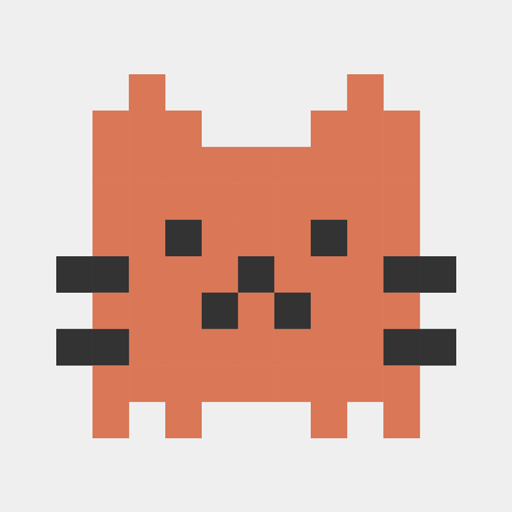
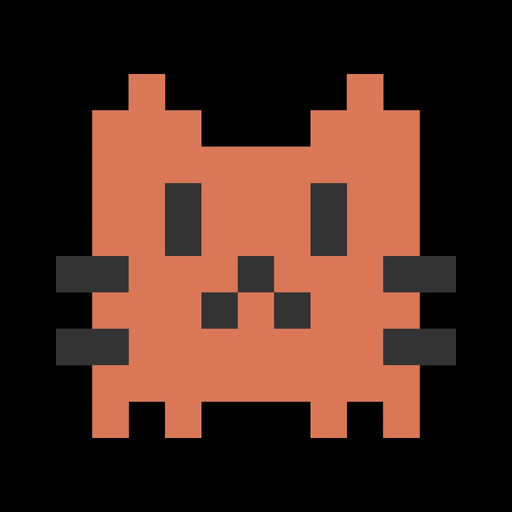
Add files via upload

diff --git a/index.html b/index.html
@@ -228,7 +228,7 @@ textarea.form-input{resize:none;height:72px;line-height:1.5;}
 <!-- ===== 登入畫面 ===== -->
 <div class="screen active" id="screen-login">
   <div style="flex:1;display:flex;flex-direction:column;align-items:center;justify-content:center;padding:40px 28px;">
[1 lines of base64/hex data omitted]
+    <div style="margin-bottom:20px;"><?xml version="1.0" encoding="UTF-8"?><svg width="120" height="120" style="display:block;margin:0 auto;" id="_圖層_1" data-name="圖層_1" xmlns="http://www.w3.org/2000/svg" version="1.1" viewBox="0 0 1100 1000"> <!-- Generator: Adobe Illustrator 30.2.1, SVG Export Plug-In . SVG Version: 2.1.1 Build 1) --> <defs>  <style>   .st0 {    fill: #d97757;   }   .st1 {    fill: #333;   }  </style> </defs> <g>  <rect class="st0" x="100" y="200" width="100" height="100"/>  <rect class="st0" x="100" y="100" width="100" height="100"/>  <rect class="st0" x="200" y="100" width="100" height="100"/>  <rect class="st0" x="300" y="100" width="100" height="100"/>  <rect class="st0" x="100" y="300" width="100" height="100"/>  <rect class="st0" x="100" y="400" width="100" height="100"/>  <rect class="st1" x="100" y="500" width="100" height="100"/>  <rect class="st0" x="200" y="200" width="100" height="100"/>  <rect class="st0" x="200" y="300" width="100" height="100"/>  <rect class="st0" x="200" y="400" width="100" height="100"/>  <rect class="st0" x="200" y="500" width="100" height="100"/>  <rect class="st0" x="300" y="200" width="100" height="100"/>  <rect class="st0" x="400" y="200" width="100" height="100"/>  <rect class="st0" x="500" y="200" width="100" height="100"/>  <rect class="st0" x="600" y="200" width="100" height="100"/>  <rect class="st0" x="900" y="100" width="100" height="100"/>  <rect class="st0" x="800" y="100" width="100" height="100"/>  <rect class="st0" x="200" y="0" width="100" height="100"/>  <rect class="st0" x="800" y="0" width="100" height="100"/>  <rect class="st0" x="700" y="100" width="100" height="100"/>  <rect class="st1" x="300" y="300" width="100" height="100"/>  <rect class="st0" x="400" y="300" width="100" height="100"/>  <rect class="st0" x="500" y="300" width="100" height="100"/>  <rect class="st0" x="600" y="300" width="100" height="100"/>  <rect class="st1" x="300" y="400" width="100" height="100"/>  <rect class="st0" x="400" y="400" width="100" height="100"/>  <rect class="st0" x="500" y="400" width="100" height="100"/>  <rect class="st0" x="600" y="400" width="100" height="100"/>  <rect class="st0" x="300" y="500" width="100" height="100"/>  <rect class="st0" x="400" y="500" width="100" height="100"/>  <rect class="st1" x="500" y="500" width="100" height="100"/>  <rect class="st0" x="600" y="500" width="100" height="100"/>  <rect class="st0" x="800" y="200" width="100" height="100"/>  <rect class="st0" x="900" y="200" width="100" height="100"/>  <rect class="st0" x="800" y="300" width="100" height="100"/>  <rect class="st0" x="900" y="300" width="100" height="100"/>  <rect class="st0" x="800" y="400" width="100" height="100"/>  <rect class="st0" x="900" y="400" width="100" height="100"/>  <rect class="st0" x="800" y="500" width="100" height="100"/>  <rect class="st1" x="900" y="500" width="100" height="100"/>  <rect class="st1" x="1000" y="500" width="100" height="100"/>  <rect class="st0" x="100" y="600" width="100" height="100"/>  <rect class="st0" x="200" y="600" width="100" height="100"/>  <rect class="st0" x="200" y="700" width="100" height="100"/>  <rect class="st1" x="100" y="700" width="100" height="100"/>  <rect class="st0" x="300" y="600" width="100" height="100"/>  <rect class="st1" x="400" y="600" width="100" height="100"/>  <rect class="st0" x="500" y="600" width="100" height="100"/>  <rect class="st1" x="600" y="600" width="100" height="100"/>  <rect class="st0" x="300" y="700" width="100" height="100"/>  <rect class="st0" x="400" y="700" width="100" height="100"/>  <rect class="st0" x="500" y="700" width="100" height="100"/>  <rect class="st0" x="600" y="700" width="100" height="100"/>  <rect class="st0" x="700" y="200" width="100" height="100"/>  <rect class="st1" x="700" y="300" width="100" height="100"/>  <rect class="st1" x="700" y="400" width="100" height="100"/>  <rect class="st0" x="700" y="500" width="100" height="100"/>  <rect class="st0" x="700" y="600" width="100" height="100"/>  <rect class="st0" x="700" y="700" width="100" height="100"/>  <rect class="st0" x="800" y="600" width="100" height="100"/>  <rect class="st0" x="900" y="600" width="100" height="100"/>  <rect class="st0" x="800" y="700" width="100" height="100"/>  <rect class="st1" x="900" y="700" width="100" height="100"/>  <rect class="st1" x="1000" y="700" width="100" height="100"/>  <rect class="st1" y="500" width="100" height="100"/>  <rect class="st1" y="700" width="100" height="100"/>  <rect class="st0" x="200" y="800" width="100" height="100"/>  <rect class="st0" x="100" y="800" width="100" height="100"/>  <rect class="st0" x="300" y="800" width="100" height="100"/>  <rect class="st0" x="400" y="800" width="100" height="100"/>  <rect class="st0" x="500" y="800" width="100" height="100"/>  <rect class="st0" x="600" y="800" width="100" height="100"/>  <rect class="st0" x="700" y="800" width="100" height="100"/>  <rect class="st0" x="800" y="800" width="100" height="100"/>  <rect class="st0" x="900" y="800" width="100" height="100"/>  <rect class="st0" x="100" y="900" width="100" height="100"/>  <rect class="st0" x="300" y="900" width="100" height="100"/>  <rect class="st0" x="700" y="900" width="100" height="100"/>  <rect class="st0" x="900" y="900" width="100" height="100"/> </g> <g>  <rect class="st0" x="100" y="200" width="100" height="100"/>  <rect class="st0" x="100" y="100" width="100" height="100"/>  <rect class="st0" x="200" y="100" width="100" height="100"/>  <rect class="st0" x="300" y="100" width="100" height="100"/>  <rect class="st0" x="100" y="300" width="100" height="100"/>  <rect class="st0" x="100" y="400" width="100" height="100"/>  <rect class="st1" x="100" y="500" width="100" height="100"/>  <rect class="st0" x="200" y="200" width="100" height="100"/>  <rect class="st0" x="200" y="300" width="100" height="100"/>  <rect class="st0" x="200" y="400" width="100" height="100"/>  <rect class="st0" x="200" y="500" width="100" height="100"/>  <rect class="st0" x="300" y="200" width="100" height="100"/>  <rect class="st0" x="400" y="200" width="100" height="100"/>  <rect class="st0" x="500" y="200" width="100" height="100"/>  <rect class="st0" x="600" y="200" width="100" height="100"/>  <rect class="st0" x="900" y="100" width="100" height="100"/>  <rect class="st0" x="800" y="100" width="100" height="100"/>  <rect class="st0" x="200" y="0" width="100" height="100"/>  <rect class="st0" x="800" y="0" width="100" height="100"/>  <rect class="st0" x="700" y="100" width="100" height="100"/>  <rect class="st1" x="300" y="300" width="100" height="100"/>  <rect class="st0" x="400" y="300" width="100" height="100"/>  <rect class="st0" x="500" y="300" width="100" height="100"/>  <rect class="st0" x="600" y="300" width="100" height="100"/>  <rect class="st1" x="300" y="400" width="100" height="100"/>  <rect class="st0" x="400" y="400" width="100" height="100"/>  <rect class="st0" x="500" y="400" width="100" height="100"/>  <rect class="st0" x="600" y="400" width="100" height="100"/>  <rect class="st0" x="300" y="500" width="100" height="100"/>  <rect class="st0" x="400" y="500" width="100" height="100"/>  <rect class="st1" x="500" y="500" width="100" height="100"/>  <rect class="st0" x="600" y="500" width="100" height="100"/>  <rect class="st0" x="800" y="200" width="100" height="100"/>  <rect class="st0" x="900" y="200" width="100" height="100"/>  <rect class="st0" x="800" y="300" width="100" height="100"/>  <rect class="st0" x="900" y="300" width="100" height="100"/>  <rect class="st0" x="800" y="400" width="100" height="100"/>  <rect class="st0" x="900" y="400" width="100" height="100"/>  <rect class="st0" x="800" y="500" width="100" height="100"/>  <rect class="st1" x="900" y="500" width="100" height="100"/>  <rect class="st1" x="1000" y="500" width="100" height="100"/>  <rect class="st0" x="100" y="600" width="100" height="100"/>  <rect class="st0" x="200" y="600" width="100" height="100"/>  <rect class="st0" x="200" y="700" width="100" height="100"/>  <rect class="st1" x="100" y="700" width="100" height="100"/>  <rect class="st0" x="300" y="600" width="100" height="100"/>  <rect class="st1" x="400" y="600" width="100" height="100"/>  <rect class="st0" x="500" y="600" width="100" height="100"/>  <rect class="st1" x="600" y="600" width="100" height="100"/>  <rect class="st0" x="300" y="700" width="100" height="100"/>  <rect class="st0" x="400" y="700" width="100" height="100"/>  <rect class="st0" x="500" y="700" width="100" height="100"/>  <rect class="st0" x="600" y="700" width="100" height="100"/>  <rect class="st0" x="700" y="200" width="100" height="100"/>  <rect class="st1" x="700" y="300" width="100" height="100"/>  <rect class="st1" x="700" y="400" width="100" height="100"/>  <rect class="st0" x="700" y="500" width="100" height="100"/>  <rect class="st0" x="700" y="600" width="100" height="100"/>  <rect class="st0" x="700" y="700" width="100" height="100"/>  <rect class="st0" x="800" y="600" width="100" height="100"/>  <rect class="st0" x="900" y="600" width="100" height="100"/>  <rect class="st0" x="800" y="700" width="100" height="100"/>  <rect class="st1" x="900" y="700" width="100" height="100"/>  <rect class="st1" x="1000" y="700" width="100" height="100"/>  <rect class="st1" y="500" width="100" height="100"/>  <rect class="st1" y="700" width="100" height="100"/>  <rect class="st0" x="200" y="800" width="100" height="100"/>  <rect class="st0" x="100" y="800" width="100" height="100"/>  <rect class="st0" x="300" y="800" width="100" height="100"/>  <rect class="st0" x="400" y="800" width="100" height="100"/>  <rect class="st0" x="500" y="800" width="100" height="100"/>  <rect class="st0" x="600" y="800" width="100" height="100"/>  <rect class="st0" x="700" y="800" width="100" height="100"/>  <rect class="st0" x="800" y="800" width="100" height="100"/>  <rect class="st0" x="900" y="800" width="100" height="100"/>  <rect class="st0" x="100" y="900" width="100" height="100"/>  <rect class="st0" x="300" y="900" width="100" height="100"/>  <rect class="st0" x="700" y="900" width="100" height="100"/>  <rect class="st0" x="900" y="900" width="100" height="100"/> </g> <g>  <rect class="st0" x="100" y="200" width="100" height="100"/>  <rect class="st0" x="100" y="100" width="100" height="100"/>  <rect class="st0" x="200" y="100" width="100" height="100"/>  <rect class="st0" x="300" y="100" width="100" height="100"/>  <rect class="st0" x="100" y="300" width="100" height="100"/>  <rect class="st0" x="100" y="400" width="100" height="100"/>  <rect class="st1" x="100" y="500" width="100" height="100"/>  <rect class="st0" x="200" y="200" width="100" height="100"/>  <rect class="st0" x="200" y="300" width="100" height="100"/>  <rect class="st0" x="200" y="400" width="100" height="100"/>  <rect class="st0" x="200" y="500" width="100" height="100"/>  <rect class="st0" x="300" y="200" width="100" height="100"/>  <rect class="st0" x="400" y="200" width="100" height="100"/>  <rect class="st0" x="500" y="200" width="100" height="100"/>  <rect class="st0" x="600" y="200" width="100" height="100"/>  <rect class="st0" x="900" y="100" width="100" height="100"/>  <rect class="st0" x="800" y="100" width="100" height="100"/>  <rect class="st0" x="200" y="0" width="100" height="100"/>  <rect class="st0" x="800" y="0" width="100" height="100"/>  <rect class="st0" x="700" y="100" width="100" height="100"/>  <rect class="st1" x="300" y="300" width="100" height="100"/>  <rect class="st0" x="400" y="300" width="100" height="100"/>  <rect class="st0" x="500" y="300" width="100" height="100"/>  <rect class="st0" x="600" y="300" width="100" height="100"/>  <rect class="st1" x="300" y="400" width="100" height="100"/>  <rect class="st0" x="400" y="400" width="100" height="100"/>  <rect class="st0" x="500" y="400" width="100" height="100"/>  <rect class="st0" x="600" y="400" width="100" height="100"/>  <rect class="st0" x="300" y="500" width="100" height="100"/>  <rect class="st0" x="400" y="500" width="100" height="100"/>  <rect class="st1" x="500" y="500" width="100" height="100"/>  <rect class="st0" x="600" y="500" width="100" height="100"/>  <rect class="st0" x="800" y="200" width="100" height="100"/>  <rect class="st0" x="900" y="200" width="100" height="100"/>  <rect class="st0" x="800" y="300" width="100" height="100"/>  <rect class="st0" x="900" y="300" width="100" height="100"/>  <rect class="st0" x="800" y="400" width="100" height="100"/>  <rect class="st0" x="900" y="400" width="100" height="100"/>  <rect class="st0" x="800" y="500" width="100" height="100"/>  <rect class="st1" x="900" y="500" width="100" height="100"/>  <rect class="st1" x="1000" y="500" width="100" height="100"/>  <rect class="st0" x="100" y="600" width="100" height="100"/>  <rect class="st0" x="200" y="600" width="100" height="100"/>  <rect class="st0" x="200" y="700" width="100" height="100"/>  <rect class="st1" x="100" y="700" width="100" height="100"/>  <rect class="st0" x="300" y="600" width="100" height="100"/>  <rect class="st1" x="400" y="600" width="100" height="100"/>  <rect class="st0" x="500" y="600" width="100" height="100"/>  <rect class="st1" x="600" y="600" width="100" height="100"/>  <rect class="st0" x="300" y="700" width="100" height="100"/>  <rect class="st0" x="400" y="700" width="100" height="100"/>  <rect class="st0" x="500" y="700" width="100" height="100"/>  <rect class="st0" x="600" y="700" width="100" height="100"/>  <rect class="st0" x="700" y="200" width="100" height="100"/>  <rect class="st1" x="700" y="300" width="100" height="100"/>  <rect class="st1" x="700" y="400" width="100" height="100"/>  <rect class="st0" x="700" y="500" width="100" height="100"/>  <rect class="st0" x="700" y="600" width="100" height="100"/>  <rect class="st0" x="700" y="700" width="100" height="100"/>  <rect class="st0" x="800" y="600" width="100" height="100"/>  <rect class="st0" x="900" y="600" width="100" height="100"/>  <rect class="st0" x="800" y="700" width="100" height="100"/>  <rect class="st1" x="900" y="700" width="100" height="100"/>  <rect class="st1" x="1000" y="700" width="100" height="100"/>  <rect class="st1" y="500" width="100" height="100"/>  <rect class="st1" y="700" width="100" height="100"/>  <rect class="st0" x="200" y="800" width="100" height="100"/>  <rect class="st0" x="100" y="800" width="100" height="100"/>  <rect class="st0" x="300" y="800" width="100" height="100"/>  <rect class="st0" x="400" y="800" width="100" height="100"/>  <rect class="st0" x="500" y="800" width="100" height="100"/>  <rect class="st0" x="600" y="800" width="100" height="100"/>  <rect class="st0" x="700" y="800" width="100" height="100"/>  <rect class="st0" x="800" y="800" width="100" height="100"/>  <rect class="st0" x="900" y="800" width="100" height="100"/>  <rect class="st0" x="100" y="900" width="100" height="100"/>  <rect class="st0" x="300" y="900" width="100" height="100"/>  <rect class="st0" x="700" y="900" width="100" height="100"/>  <rect class="st0" x="900" y="900" width="100" height="100"/> </g> <g>  <rect class="st0" x="100" y="200" width="100" height="100"/>  <rect class="st0" x="100" y="100" width="100" height="100"/>  <rect class="st0" x="200" y="100" width="100" height="100"/>  <rect class="st0" x="300" y="100" width="100" height="100"/>  <rect class="st0" x="100" y="300" width="100" height="100"/>  <rect class="st0" x="100" y="400" width="100" height="100"/>  <rect class="st1" x="100" y="500" width="100" height="100"/>  <rect class="st0" x="200" y="200" width="100" height="100"/>  <rect class="st0" x="200" y="300" width="100" height="100"/>  <rect class="st0" x="200" y="400" width="100" height="100"/>  <rect class="st0" x="200" y="500" width="100" height="100"/>  <rect class="st0" x="300" y="200" width="100" height="100"/>  <rect class="st0" x="400" y="200" width="100" height="100"/>  <rect class="st0" x="500" y="200" width="100" height="100"/>  <rect class="st0" x="600" y="200" width="100" height="100"/>  <rect class="st0" x="900" y="100" width="100" height="100"/>  <rect class="st0" x="800" y="100" width="100" height="100"/>  <rect class="st0" x="200" y="0" width="100" height="100"/>  <rect class="st0" x="800" y="0" width="100" height="100"/>  <rect class="st0" x="700" y="100" width="100" height="100"/>  <rect class="st1" x="300" y="300" width="100" height="100"/>  <rect class="st0" x="400" y="300" width="100" height="100"/>  <rect class="st0" x="500" y="300" width="100" height="100"/>  <rect class="st0" x="600" y="300" width="100" height="100"/>  <rect class="st1" x="300" y="400" width="100" height="100"/>  <rect class="st0" x="400" y="400" width="100" height="100"/>  <rect class="st0" x="500" y="400" width="100" height="100"/>  <rect class="st0" x="600" y="400" width="100" height="100"/>  <rect class="st0" x="300" y="500" width="100" height="100"/>  <rect class="st0" x="400" y="500" width="100" height="100"/>  <rect class="st1" x="500" y="500" width="100" height="100"/>  <rect class="st0" x="600" y="500" width="100" height="100"/>  <rect class="st0" x="800" y="200" width="100" height="100"/>  <rect class="st0" x="900" y="200" width="100" height="100"/>  <rect class="st0" x="800" y="300" width="100" height="100"/>  <rect class="st0" x="900" y="300" width="100" height="100"/>  <rect class="st0" x="800" y="400" width="100" height="100"/>  <rect class="st0" x="900" y="400" width="100" height="100"/>  <rect class="st0" x="800" y="500" width="100" height="100"/>  <rect class="st1" x="900" y="500" width="100" height="100"/>  <rect class="st1" x="1000" y="500" width="100" height="100"/>  <rect class="st0" x="100" y="600" width="100" height="100"/>  <rect class="st0" x="200" y="600" width="100" height="100"/>  <rect class="st0" x="200" y="700" width="100" height="100"/>  <rect class="st1" x="100" y="700" width="100" height="100"/>  <rect class="st0" x="300" y="600" width="100" height="100"/>  <rect class="st1" x="400" y="600" width="100" height="100"/>  <rect class="st0" x="500" y="600" width="100" height="100"/>  <rect class="st1" x="600" y="600" width="100" height="100"/>  <rect class="st0" x="300" y="700" width="100" height="100"/>  <rect class="st0" x="400" y="700" width="100" height="100"/>  <rect class="st0" x="500" y="700" width="100" height="100"/>  <rect class="st0" x="600" y="700" width="100" height="100"/>  <rect class="st0" x="700" y="200" width="100" height="100"/>  <rect class="st1" x="700" y="300" width="100" height="100"/>  <rect class="st1" x="700" y="400" width="100" height="100"/>  <rect class="st0" x="700" y="500" width="100" height="100"/>  <rect class="st0" x="700" y="600" width="100" height="100"/>  <rect class="st0" x="700" y="700" width="100" height="100"/>  <rect class="st0" x="800" y="600" width="100" height="100"/>  <rect class="st0" x="900" y="600" width="100" height="100"/>  <rect class="st0" x="800" y="700" width="100" height="100"/>  <rect class="st1" x="900" y="700" width="100" height="100"/>  <rect class="st1" x="1000" y="700" width="100" height="100"/>  <rect class="st1" y="500" width="100" height="100"/>  <rect class="st1" y="700" width="100" height="100"/>  <rect class="st0" x="200" y="800" width="100" height="100"/>  <rect class="st0" x="100" y="800" width="100" height="100"/>  <rect class="st0" x="300" y="800" width="100" height="100"/>  <rect class="st0" x="400" y="800" width="100" height="100"/>  <rect class="st0" x="500" y="800" width="100" height="100"/>  <rect class="st0" x="600" y="800" width="100" height="100"/>  <rect class="st0" x="700" y="800" width="100" height="100"/>  <rect class="st0" x="800" y="800" width="100" height="100"/>  <rect class="st0" x="900" y="800" width="100" height="100"/>  <rect class="st0" x="100" y="900" width="100" height="100"/>  <rect class="st0" x="300" y="900" width="100" height="100"/>  <rect class="st0" x="700" y="900" width="100" height="100"/>  <rect class="st0" x="900" y="900" width="100" height="100"/> </g></svg></div>
     <div style="font-size:32px;font-weight:900;color:var(--text);letter-spacing:-1px;text-align:center;line-height:1.1;">貓貓<br><span style="color:var(--accent);">摸魚</span>任務</div>
     <div style="font-size:14px;color:var(--muted);margin-top:12px;margin-bottom:48px;text-align:center;line-height:1.6;">貓貓摸魚中，存款穩定成長中</div>
     <button onclick="loginWithGoogle()" style="display:flex;align-items:center;gap:12px;background:var(--card);border:1.5px solid var(--border);border-radius:14px;padding:14px 24px;font-size:15px;font-weight:700;color:var(--text);cursor:pointer;font-family:inherit;width:100%;justify-content:center;transition:all .15s;">
